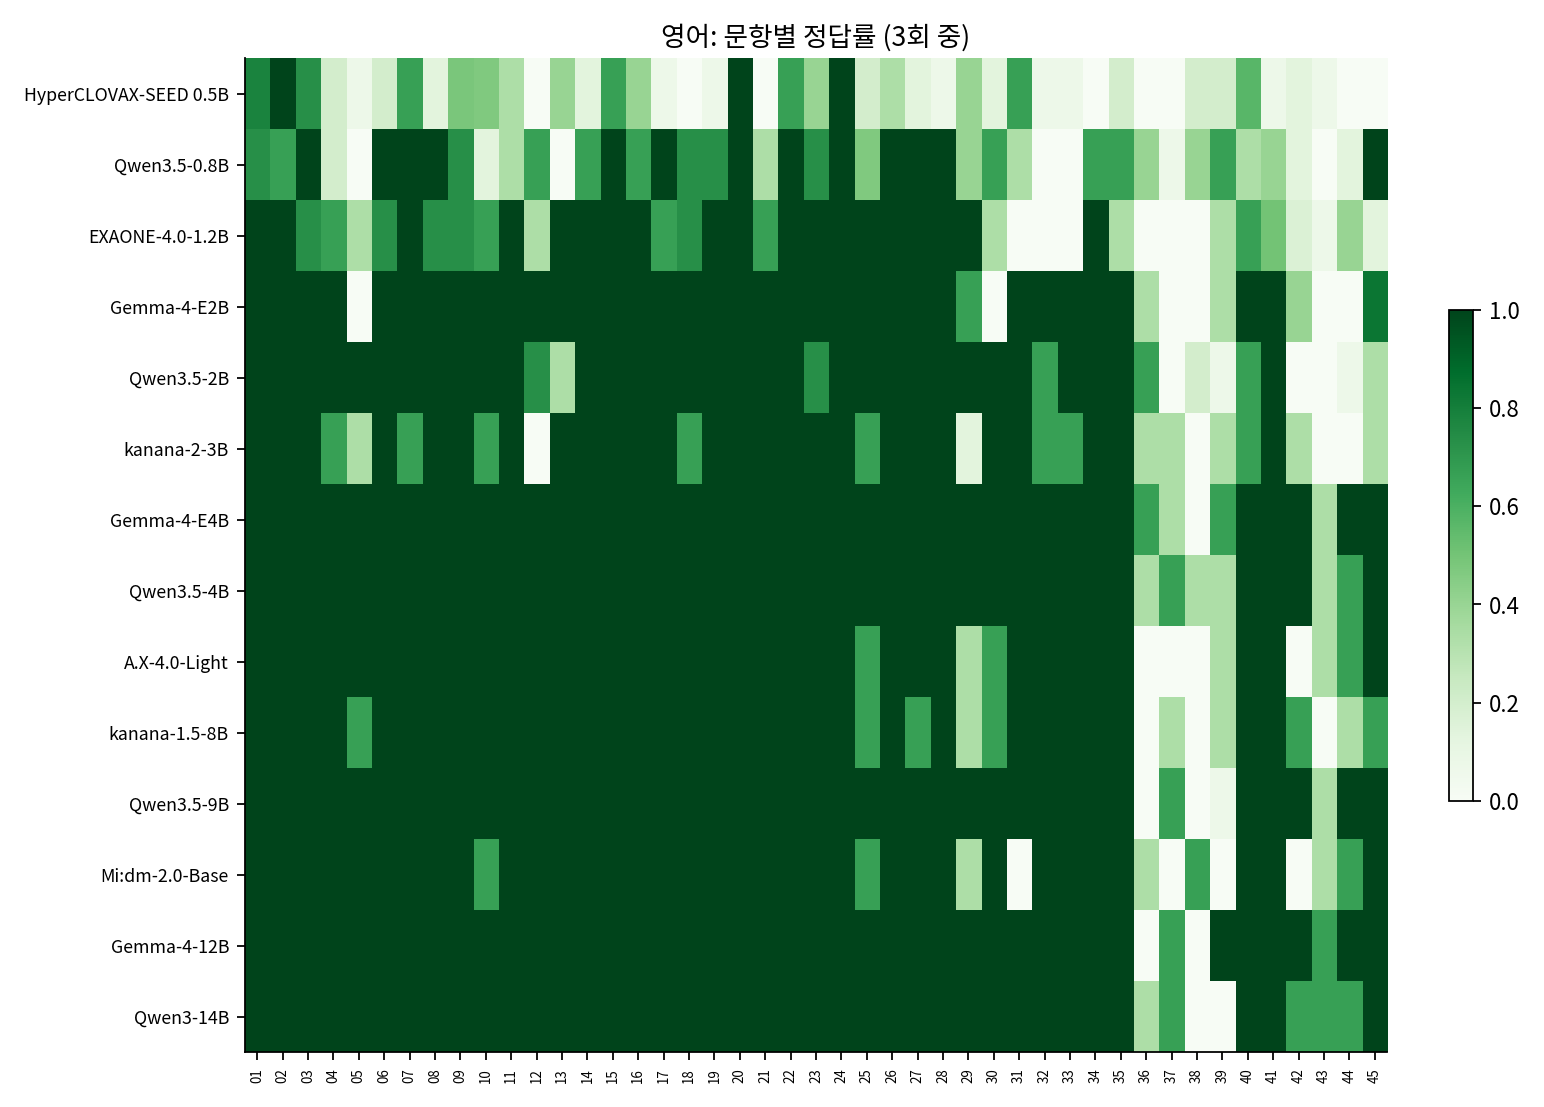
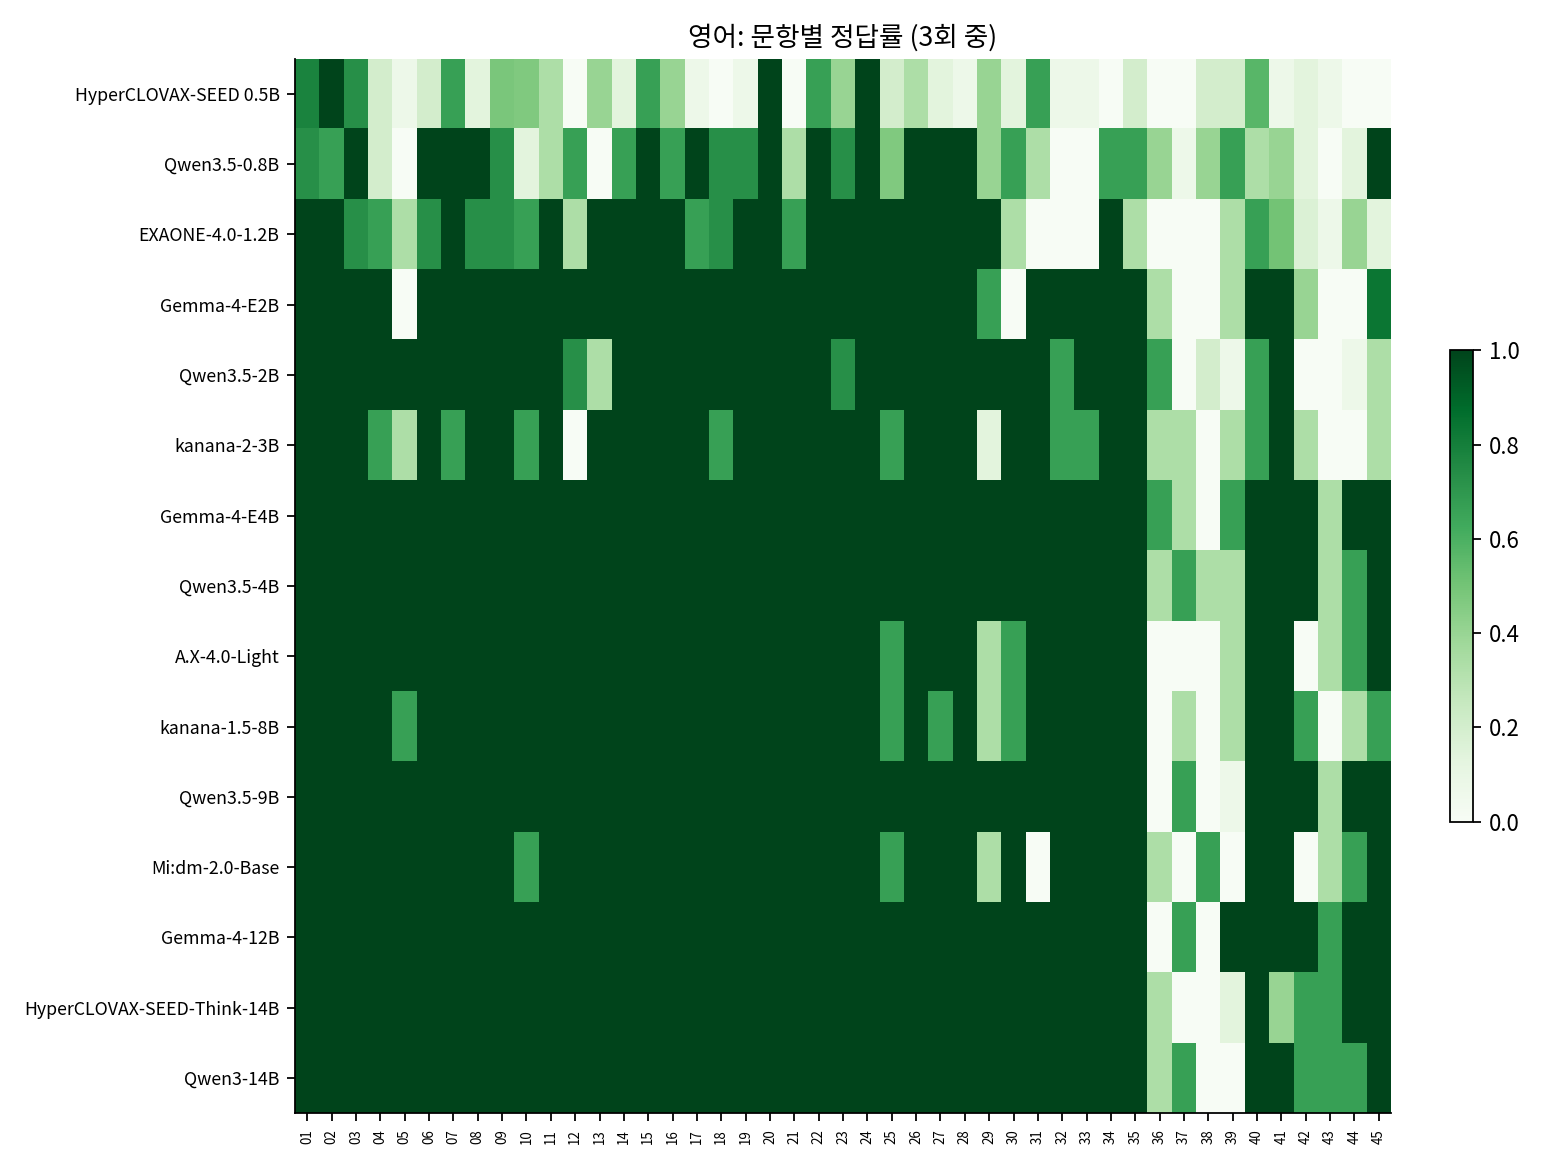
Update results (72 runs)

diff --git a/README.md b/README.md
@@ -13,9 +13,9 @@
 - **수학**은 작은 모델도 잘 푼다. 4B 크기의 Gemma-4-E4B가 80점을 넘었다.
 - 시험지 맨 끝의 4점 단답형 고난도 문항(공통 21·22번, 선택 29·30번)은 모델 평균 정답률이 22%, 가장 잘 푼 모델도 67%에 그쳤다.
 - **국어가 수학보다 어렵다.** 2B 이상 모델 기준으로 국어 정답률이 수학보다 평균 12%p 낮다. 2,000–4,000자 길이의 지문을 읽고 선택지 사이의 미묘한 차이를 가려내는 일이 작은 모델에게는 계산보다 어렵다.
-- **국산 모델**: HyperCLOVAX-SEED 0.5B(국어 18점, 수학 19점, 영어 28점, 한국사 12점), EXAONE-4.0-1.2B(국어 31점, 수학 75점, 영어 63점, 한국사 15점), kanana-2-3B(국어 34점, 수학 39점, 영어 74점, 한국사 33점), A.X-4.0-Light(국어 49점, 수학 56점, 영어 83점, 한국사 32점), kanana-1.5-8B(국어 45점, 수학 42점, 영어 83점, 한국사 41점), Mi:dm-2.0-Base(국어 44점, 수학 54점, 영어 82점, 한국사 46점), HyperCLOVAX-SEED-Think-14B(국어 78점).
+- **국산 모델**: HyperCLOVAX-SEED 0.5B(국어 18점, 수학 19점, 영어 28점, 한국사 12점), EXAONE-4.0-1.2B(국어 31점, 수학 75점, 영어 63점, 한국사 15점), kanana-2-3B(국어 34점, 수학 39점, 영어 74점, 한국사 33점), A.X-4.0-Light(국어 49점, 수학 56점, 영어 83점, 한국사 32점), kanana-1.5-8B(국어 45점, 수학 42점, 영어 83점, 한국사 41점), Mi:dm-2.0-Base(국어 44점, 수학 54점, 영어 82점, 한국사 46점), HyperCLOVAX-SEED-Think-14B(국어 78점, 영어 88점).
 
-> 마지막 업데이트: 2026-11-20 10:05 KST. 평가가 진행되는 동안 모델 하나가 끝날 때마다 이 페이지가 자동으로 갱신된다.
+> 마지막 업데이트: 2026-11-20 10:09 KST. 평가가 진행되는 동안 모델 하나가 끝날 때마다 이 페이지가 자동으로 갱신된다.
 
 ## 왜 소형 모델인가
 
@@ -70,6 +70,8 @@
 
 ![가장 어려운 15문항](figures/hardest_items.png)
 
+**모든 모델이 3회 모두 맞힌 문항**: `eng-all-20`, `eng-all-24`
+
 ## 문항 해설
 
 대표 문항 몇 개를 골라 모델별 풀이 과정을 구체적으로 분석했다: [docs/examples.md](docs/examples.md)
@@ -97,7 +99,7 @@
 | Qwen3.5-9B | 알리바바 | 9.0 | 플래그십 스마트폰 | 87.7 <sub>(87–88)</sub> | 79.0 <sub>(76–81)</sub> | 90.4 <sub>(89–93)</sub> | 86.7 <sub>(82–92)</sub> | 92.8 <sub>(90–96)</sub> | 90.9 <sub>(89–93)</sub> | 28.6 <sub>(25–33)</sub> | 42.3 <sub>(40–45)</sub> | 25.8 <sub>(21–33)</sub> | 45.3 <sub>(44–48)</sub> | 28.5 <sub>(24–36)</sub> | 28.5 <sub>(25–34)</sub> |
 | Mi:dm-2.0-Base | KT | 11.5 | 노트북·태블릿 | 47.3 <sub>(46–50)</sub> | 41.0 <sub>(37–45)</sub> | 55.3 <sub>(55–56)</sub> | 50.3 <sub>(47–55)</sub> | 54.9 <sub>(51–59)</sub> | 82.3 <sub>(79–87)</sub> | 45.7 <sub>(41–48)</sub> | 30.7 <sub>(29–34)</sub> | 23.3 <sub>(21–25)</sub> | 17.3 <sub>(14–19)</sub> | 21.3 <sub>(17–28)</sub> | 17.3 <sub>(12–24)</sub> |
 | Gemma-4-12B | 구글 | 12.0 | 노트북·태블릿 | 91.7 <sub>(88–95)</sub> | 86.2 <sub>(78–93)</sub> | 88.5 <sub>(86–90)</sub> | 81.6 <sub>(82–82)</sub> | 88.5 <sub>(86–90)</sub> | 94.3 <sub>(91–96)</sub> | 39.2 <sub>(35–43)</sub> | 42.8 <sub>(39–47)</sub> | 37.5 <sub>(35–41)</sub> | 45.2 <sub>(40–50)</sub> | 32.2 <sub>(31–34)</sub> | 34.4 <sub>(32–37)</sub> |
-| HyperCLOVAX-SEED-Think-14B | 네이버 | 14.7 | 노트북·태블릿 | 80.3 <sub>(78–83)</sub> | 74.7 <sub>(72–77)</sub> | — | — | — | — | — | — | — | — | — | — |
+| HyperCLOVAX-SEED-Think-14B | 네이버 | 14.7 | 노트북·태블릿 | 80.3 <sub>(78–83)</sub> | 74.7 <sub>(72–77)</sub> | — | — | — | 88.2 <sub>(87–89)</sub> | — | — | — | — | — | — |
 | Qwen3-14B | 알리바바 | 14.8 | 노트북·태블릿 | 72.0 <sub>(68–77)</sub> | 64.7 <sub>(64–66)</sub> | 91.7 <sub>(90–96)</sub> | 87.2 <sub>(85–89)</sub> | 92.8 <sub>(93–93)</sub> | 90.3 <sub>(89–93)</sub> | 24.0 <sub>(22–25)</sub> | 38.0 <sub>(35–40)</sub> | 20.3 <sub>(16–24)</sub> | 36.3 <sub>(30–40)</sub> | 25.7 <sub>(23–27)</sub> | 26.7 <sub>(18–36)</sub> |
 
 **국어·수학·영어 원점수**
@@ -170,7 +172,7 @@
 | Qwen3.5-9B | 0.80 / 0.79 / 0.07 / 0.07 / 7616 | 0.90 / 0.89 / 0.11 / 0.11 / 7024 | 0.91 / 0.91 / 0.01 / 0.01 / 3250 | 0.57 / 0.57 / 0.03 / 0.03 / 8780 | 0.69 / 0.67 / 0.08 / 0.09 / 8504 |
 | Mi:dm-2.0-Base | 0.45 / 0.45 / 0.00 / 0.00 / 361 | 0.55 / 0.54 / 0.01 / 0.01 / 851 | 0.84 / 0.84 / 0.00 / 0.00 / 251 | 0.90 / 0.90 / 0.00 / 0.00 / 265 | 0.45 / 0.45 / 0.00 / 0.00 / 371 |
 | Gemma-4-12B | 0.86 / 0.86 / 0.05 / 0.05 / 5240 | 0.89 / 0.88 / 0.12 / 0.12 / 6271 | 0.94 / 0.94 / 0.00 / 0.00 / 1211 | 0.79 / 0.78 / 0.02 / 0.02 / 3103 | 0.78 / 0.76 / 0.11 / 0.11 / 6245 |
-| HyperCLOVAX-SEED-Think-14B | 0.73 / 0.73 / 0.00 / 0.00 / 5140 | — | — | — | — |
+| HyperCLOVAX-SEED-Think-14B | 0.73 / 0.73 / 0.00 / 0.00 / 5140 | — | 0.89 / 0.89 / 0.02 / 0.00 / 2236 | — | — |
 | Qwen3-14B | 0.62 / 0.62 / 0.00 / 0.00 / 1395 | 0.91 / 0.90 / 0.10 / 0.09 / 4721 | 0.91 / 0.91 / 0.00 / 0.00 / 635 | 0.48 / 0.48 / 0.00 / 0.00 / 1561 | 0.60 / 0.60 / 0.00 / 0.00 / 3066 |
 
 ## 평가 방법
